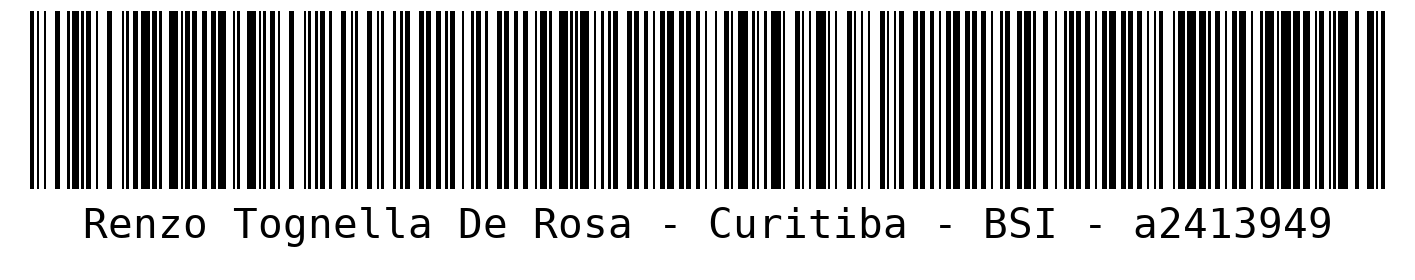
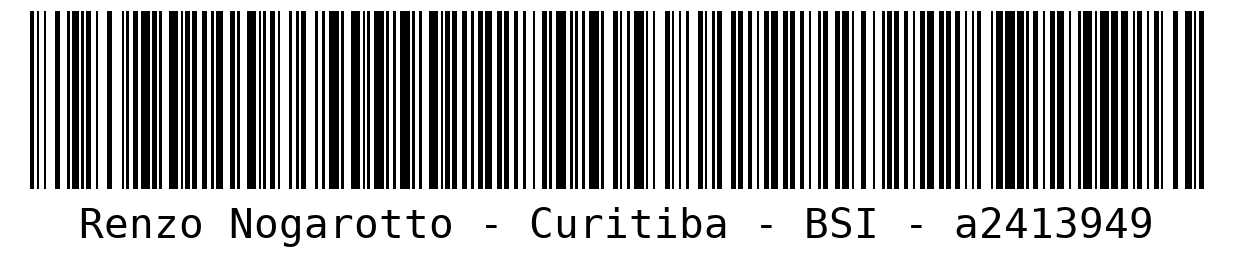
Botão Voltar/ Em todas as pag

diff --git a/Projeto/AplicativoRU/Conta.py b/Projeto/AplicativoRU/Conta.py
@@ -1,7 +1,7 @@
 import sys
-from PySide6.QtWidgets import QApplication, QWidget, QVBoxLayout, QLabel, QPushButton, QLineEdit, QFileDialog
-from PySide6.QtGui import QPixmap, QImage
-from PySide6.QtCore import Qt
+from PySide6.QtWidgets import QApplication, QWidget, QVBoxLayout, QLabel, QPushButton, QLineEdit, QFileDialog, QMainWindow
+from PySide6.QtGui import QPixmap, QImage, QFont
+from PySide6.QtCore import Qt, QSize
 import barcode
 from barcode.writer import ImageWriter
 import tempfile
@@ -9,16 +9,37 @@ import os
 from PIL import Image
 import io
 
-class ContaApp(QWidget):
+
+class ContaApp(QMainWindow):
     def __init__(self, cor_fundo=(248, 237, 237)):
         super(ContaApp, self).__init__()
 
         self.setWindowTitle("Tela de Conta")
+        self.setGeometry(100, 100, 600, 400)
 
-        # Criar um layout vertical
-        layout = QVBoxLayout(self)
+        # Criar um widget para a nova tela
+        widget = QWidget(self)
 
-        
+        # Configurar o layout como uma caixa vertical
+        layout = QVBoxLayout(widget)
+
+        # Adicionar o botão de voltar no canto superior esquerdo
+        x_voltar = 10
+        y_voltar = 10
+        square_size_voltar = 40
+
+        self.botao_voltar = QPushButton(self)
+        self.botao_voltar.setObjectName("voltar")
+        self.botao_voltar.setFixedSize(square_size_voltar, square_size_voltar)
+        self.botao_voltar.move(x_voltar, y_voltar)
+        image_path_inside_square_voltar = "Projeto/AplicativoRU/back.png"
+        self.botao_voltar.setIcon(QPixmap(image_path_inside_square_voltar))
+        tamanho_icone_voltar = QSize(70, 70)
+        self.botao_voltar.setIconSize(tamanho_icone_voltar)
+        self.botao_voltar.clicked.connect(self.voltar_pagina_anterior)
+
+        # Adicionar o botão de voltar ao layout
+        layout.addWidget(self.botao_voltar, alignment=Qt.AlignTop | Qt.AlignLeft)
 
         # Adicionar a imagem do brasão da república brasileira
         imagem_path = "AplicativoRU/brasaooficialcolorido.png"  # Substitua pelo caminho onde esta salva a imagem
@@ -40,7 +61,7 @@ class ContaApp(QWidget):
 
         # Adicionar campos de texto para nome do usuário, campus e departamento
         self.nome_usuario = QLabel(self)
-        self.nome_usuario.setText("Aluno: Renzo Tognella De Rosa")
+        self.nome_usuario.setText("Aluno: Renzo Nogarotto")
         self.nome_usuario.setAlignment(Qt.AlignCenter)
         self.nome_usuario.setStyleSheet('font-size: 24px')
         layout.addWidget(self.nome_usuario)
@@ -68,10 +89,13 @@ class ContaApp(QWidget):
         # Gerar e exibir o código de barras
 
         # Configurar o layout do widget principal
-        self.setLayout(layout)
+        widget.setLayout(layout)
+
+        # Definir o widget como o widget central da janela
+        self.setCentralWidget(widget)
 
     def gerar_codigo_barras(self):
-        nome_usuario = "Renzo Tognella De Rosa"
+        nome_usuario = "Renzo Nogarotto"
         campus = "Curitiba"
         departamento = "BSI"
         registro_academico = "a2413949"  # Substitua pelo registro acadêmico real
@@ -89,6 +113,7 @@ class ContaApp(QWidget):
         pixmap = QPixmap(arquivo_codigo_barras)
         self.codigo_barras_label.setPixmap(pixmap.scaledToWidth(400, Qt.SmoothTransformation))
         self.codigo_barras_label.setAlignment(Qt.AlignCenter)
+
     def escolher_imagem(self):
         options = QFileDialog.Options()
         options |= QFileDialog.DontUseNativeDialog
@@ -98,6 +123,10 @@ class ContaApp(QWidget):
             pixmap = QPixmap(arquivo)
             self.imagem_label.setPixmap(pixmap.scaledToWidth(250, Qt.SmoothTransformation))
             self.imagem_label.setAlignment(Qt.AlignCenter)
+
+    def voltar_pagina_anterior(self):
+        print("Voltando à página anterior")
+
 
 if __name__ == "__main__":
     app = QApplication(sys.argv)

diff --git a/Projeto/AplicativoRU/ticket.py b/Projeto/AplicativoRU/ticket.py
@@ -1,6 +1,6 @@
-from PySide6.QtWidgets import QApplication, QMainWindow, QWidget, QVBoxLayout, QLabel, QFrame
-from PySide6.QtGui import QColor, QFont
-from PySide6.QtCore import Qt
+from PySide6.QtWidgets import QApplication, QMainWindow, QWidget, QVBoxLayout, QLabel, QPushButton, QFrame
+from PySide6.QtGui import QColor, QFont, QPixmap
+from PySide6.QtCore import Qt, QSize
 
 class VerticalLine(QFrame):
     def __init__(self, parent=None):
@@ -16,6 +16,21 @@ class FloatingSquares(QWidget):
 
         # Definir a cor dos quadrados como cinza claro
         cor_cinza_claro = QColor(200, 200, 200)
+
+        # Adicionar um botão de voltar no canto superior esquerdo
+        x_voltar = 10
+        y_voltar = 10
+        square_size_voltar = 40
+
+        self.botao_voltar = QPushButton(self)
+        self.botao_voltar.setObjectName("voltar")
+        self.botao_voltar.setFixedSize(square_size_voltar, square_size_voltar)
+        self.botao_voltar.move(x_voltar, y_voltar)
+        image_path_inside_square_voltar = "Projeto/AplicativoRU/back.png"
+        self.botao_voltar.setIcon(QPixmap(image_path_inside_square_voltar))
+        tamanho_icone_voltar = QSize(70, 70)
+        self.botao_voltar.setIconSize(tamanho_icone_voltar)
+        self.botao_voltar.clicked.connect(self.voltar_pagina_anterior)
 
         # Adicionar uma mensagem acima dos quadrados
         self.message_label = QLabel("Histórico de Tickets", self)
@@ -53,6 +68,7 @@ class FloatingSquares(QWidget):
 
         # Layout vertical para posicionar a mensagem, a linha e os quadrados
         layout = QVBoxLayout(self)
+        layout.addWidget(self.botao_voltar, 0, Qt.AlignTop | Qt.AlignLeft)
         layout.addWidget(self.message_label, 0, Qt.AlignCenter)
         layout.addSpacing(40)  # Aumentar o espaçamento entre a mensagem e as caixas
         layout.addWidget(linha_vertical, 0, Qt.AlignCenter)
@@ -67,6 +83,9 @@ class FloatingSquares(QWidget):
         tamanho_quadrado = 250  # Tamanho fixo dos quadrados
         self.square1.setFixedSize(tamanho_quadrado, tamanho_quadrado)
         self.square2.setFixedSize(tamanho_quadrado, tamanho_quadrado)
+
+    def voltar_pagina_anterior(self):
+        print("Voltando à página anterior")
 
 class MinhaTela(QMainWindow):
     def __init__(self):

diff --git a/Projeto/AplicativoRU/historico.py b/Projeto/AplicativoRU/historico.py
@@ -1,6 +1,6 @@
-from PySide6.QtWidgets import QApplication, QWidget, QVBoxLayout, QLabel, QFrame, QLabel
-from PySide6.QtGui import QPainter, QColor, QFont
-from PySide6.QtCore import Qt
+from PySide6.QtWidgets import QApplication, QWidget, QVBoxLayout, QLabel, QFrame, QPushButton
+from PySide6.QtGui import QPainter, QColor, QFont, QPixmap
+from PySide6.QtCore import Qt, QSize
 
 class HistoricocomprasApp(QWidget):
     def __init__(self, cor_fundo=(248, 237, 237)):
@@ -9,6 +9,24 @@ class HistoricocomprasApp(QWidget):
 
         # Criar um layout vertical
         layout = QVBoxLayout(self)
+
+        # Adicionar o botão de voltar no canto superior esquerdo
+        x_voltar = 10
+        y_voltar = 10
+        square_size_voltar = 40
+
+        self.botao_voltar = QPushButton(self)
+        self.botao_voltar.setObjectName("voltar")
+        self.botao_voltar.setFixedSize(square_size_voltar, square_size_voltar)
+        self.botao_voltar.move(x_voltar, y_voltar)
+        image_path_inside_square_voltar = "Projeto/AplicativoRU/back.png"
+        self.botao_voltar.setIcon(QPixmap(image_path_inside_square_voltar))
+        tamanho_icone_voltar = QSize(70, 70)
+        self.botao_voltar.setIconSize(tamanho_icone_voltar)
+        self.botao_voltar.clicked.connect(self.voltar_pagina_anterior)
+
+        # Adicionar o botão de voltar ao layout
+        layout.addWidget(self.botao_voltar, alignment=Qt.AlignTop | Qt.AlignLeft)
 
         # Criar a primeira caixa de cor cinza
         caixa1 = QFrame(self)
@@ -25,7 +43,7 @@ class HistoricocomprasApp(QWidget):
         caixa2 = QFrame(self)
         caixa2.setFrameShape(QFrame.StyledPanel)
         caixa2.setStyleSheet("background-color: rgb(200, 200, 200);")  # Cor cinza
-      
+
         # Adicionar informações à segunda caixa
         label2 = QLabel("Tipo de Refeição: Jantar\nData e Hora: 05/02/2023 19:00\nLocal: UTFPR Campus Curitiba - Ecoville", caixa2)
         font2 = QFont("Biome Light", 12)  
@@ -34,6 +52,9 @@ class HistoricocomprasApp(QWidget):
 
         # Configurar o layout do widget principal
         self.setLayout(layout)
+
+    def voltar_pagina_anterior(self):
+        print("Voltando à página anterior")
 
 if __name__ == "__main__":
     app = QApplication([])

diff --git a/Projeto/AplicativoRU/cardapio.py b/Projeto/AplicativoRU/cardapio.py
@@ -1,12 +1,12 @@
-from PySide6.QtWidgets import QApplication, QMainWindow, QWidget, QVBoxLayout, QLabel, QHBoxLayout, QSizePolicy
-from PySide6.QtGui import QColor
-from PySide6.QtCore import Qt
+from PySide6.QtWidgets import QApplication, QMainWindow, QWidget, QVBoxLayout, QLabel, QHBoxLayout, QSizePolicy, QPushButton
+from PySide6.QtGui import QColor, QPixmap
+from PySide6.QtCore import Qt, QSize
 
 class cardapioTela(QMainWindow):
     def __init__(self, cor_amarelo=(255, 218, 185), cor_fundo=(200, 200, 200), cor_cinza=(169, 169, 169), proporcao_amarelo=1, proporcao_cinza=3):
         super().__init__()
 
-        self.setWindowTitle("Nova Tela")
+        self.setWindowTitle("Cardápio")
         self.setGeometry(200, 200, 600, 400)
 
         # Criar um widget para a nova tela
@@ -14,6 +14,24 @@ class cardapioTela(QMainWindow):
 
         # Configurar o layout como uma caixa vertical
         layout = QVBoxLayout(widget)
+
+        # Adicionar o botão de voltar no canto superior esquerdo
+        x_voltar = 10
+        y_voltar = 10
+        square_size_voltar = 40
+
+        self.botao_voltar = QPushButton(self)
+        self.botao_voltar.setObjectName("voltar")
+        self.botao_voltar.setFixedSize(square_size_voltar, square_size_voltar)
+        self.botao_voltar.move(x_voltar, y_voltar)
+        image_path_inside_square_voltar = "Projeto/AplicativoRU/back.png"
+        self.botao_voltar.setIcon(QPixmap(image_path_inside_square_voltar))
+        tamanho_icone_voltar = QSize(70, 70)
+        self.botao_voltar.setIconSize(tamanho_icone_voltar)
+        self.botao_voltar.clicked.connect(self.voltar_pagina_anterior)
+
+        # Adicionar o botão de voltar ao layout
+        layout.addWidget(self.botao_voltar, alignment=Qt.AlignTop | Qt.AlignLeft)
 
         # Criar uma etiqueta para a parte amarela (20%)
         parte_amarela = QLabel()
@@ -66,3 +84,11 @@ class cardapioTela(QMainWindow):
         # Definir o widget como o widget central da janela
         self.setCentralWidget(widget)
 
+    def voltar_pagina_anterior(self):
+        print("Voltando à página anterior")
+
+if __name__ == "__main__":
+    app = QApplication([])
+    window = cardapioTela()
+    window.show()
+    app.exec()

diff --git a/Projeto/AplicativoRU/escolhaDePagamento.py b/Projeto/AplicativoRU/escolhaDePagamento.py
@@ -1,6 +1,9 @@
-from PySide6.QtWidgets import QApplication, QMainWindow, QWidget, QLabel, QVBoxLayout
-from PySide6.QtGui import QFont
-from PySide6.QtCore import Qt
+
+import sys
+from PySide6.QtWidgets import QApplication, QMainWindow, QWidget, QLabel, QVBoxLayout, QPushButton
+from PySide6.QtGui import QFont, QPixmap
+from PySide6.QtCore import Qt, QSize
+
 
 class telaEscolhaPag(QMainWindow):
     def __init__(self):
@@ -12,6 +15,26 @@ class telaEscolhaPag(QMainWindow):
         # Criar um widget personalizado
         custom_widget = SaldoWidget(self)
         self.setCentralWidget(custom_widget)
+
+        # Adicionar o botão de voltar
+        x_voltar = 10
+        y_voltar = 10
+        square_size_voltar = 40
+
+        self.botao_voltar = QPushButton(self)
+        self.botao_voltar.setObjectName("voltar")
+        self.botao_voltar.setFixedSize(square_size_voltar, square_size_voltar)
+        self.botao_voltar.move(x_voltar, y_voltar)
+        image_path_inside_square_voltar = "Projeto/AplicativoRU/back.png"
+        self.botao_voltar.setIcon(QPixmap(image_path_inside_square_voltar))
+        tamanho_icone_voltar = QSize(70, 70)
+        self.botao_voltar.setIconSize(tamanho_icone_voltar)
+        self.botao_voltar.clicked.connect(self.voltar_pagina_anterior)
+
+    def voltar_pagina_anterior(self):
+        print("Voltando à página anterior")
+        
+        
 
 class SaldoWidget(QWidget):
     def __init__(self, parent):

diff --git a/Projeto/AplicativoRU/compras1.py b/Projeto/AplicativoRU/compras1.py
@@ -82,6 +82,7 @@ class SaldoWidget(QWidget):
 
     def voltar_pagina_anterior(self):
         print("Voltando à página anterior")
+        
 
     def resizeEvent(self, event):
         # Redefinir os tamanhos proporcionais quando a janela for redimensionada
